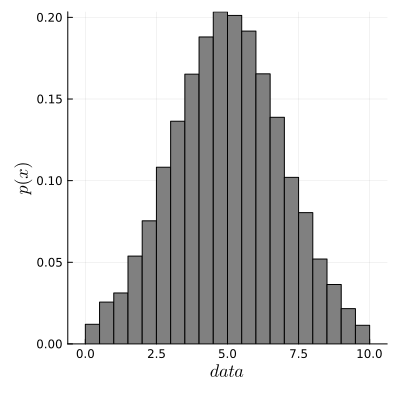
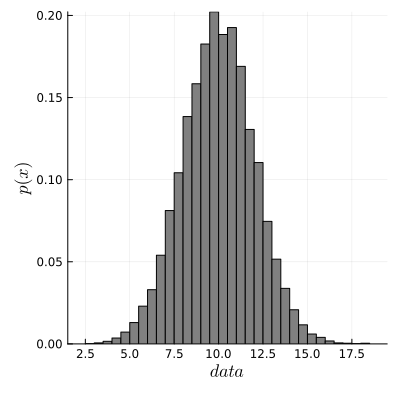
doc

diff --git a/README.md b/README.md
@@ -39,8 +39,8 @@ First, let's generate some data:
 ```julia
 using Distributions, LaTeXStrings, Plots
 
-mu, sigma = 5, 2
-l_b, u_b = 0, 10
+mu, sigma = 10, 2
+l_b, u_b = 0, 20
 d = Truncated(Normal(mu, sigma), l_b, u_b)
 N = 10000
 data = rand(d, N)
@@ -61,7 +61,7 @@ end
 
 function log_prior(parameters::Vector)
     mu, sigma = parameters[1], parameters[2]
-    if 1.0 < mu < 10.0 && 0.0 < sigma < 4.0
+    if 5.0 < mu < 15.0 && 0.0 < sigma < 5.0
         return 0.0
     end
     return -Inf
@@ -76,22 +76,22 @@ function log_probability(X::Vector, parameters::Vector)
 end
 ```
 
-The parameters are $$\mu$$ and $$\sigma$$. To run mcmc and sample the posterior probability function we call the McmcHermes packages. Let's define the number of walkers and iterations
+The parameters are $\mu$ and $\sigma$. To run mcmc and sample the posterior probability function we call the McmcHermes packages. Let's define the number of walkers and iterations
 
 ```julia
 using McmcHermes
 
-mu, sigma = 5, 2
+mu, sigma = 10, 2
 initparams = Vector{Float64}([mu, sigma])
 
-n_iter, n_walkers = 10000, 30
+n_iter, n_walkers = 5000, 30
 n_dim = 2
 seed = rand(n_walkers, n_dim) * 1e-4 .+ transpose(initparams)
 
 chains = McmcHermes.run_mcmc(log_probability, data, seed, n_iter, n_walkers, n_dim, a=0.01)
 println(size(chains))
 ```
-(10000, 30, 2)
+(5000, 30, 2)
 
 Gelman-Rubin's diagnostic of chains can be obtained calling the gelman\_rubin\_diagnostic method.
 ```julia 
@@ -119,16 +119,42 @@ Chains can also be plotted in a corner. To do so, first get the flat chain
 ```julia
 flat_chains = McmcHermes.get_flat_chain(chains, burn_in=100, thin=10)
 
-flat = DataFrame(flat_chains, :auto)
-colnames = ["mu", "sigma"]
-flat = rename!(flat, Symbol.(colnames))
-
 using PairPlots, CairoMakie
-pairplot(flat)
+
+table = (; x=flat_chains[:,1], y=flat_chains[:,2],)
+fig = pairplot(table, labels = Dict(:x => L"\mu", :y => L"\sigma"))
 ```
 ![corner](./docs/src/assets/corner.png)
 
 ### Get samples from a distribution (New)
 
+If you want to draw samples from the following distribution
+
+$$\frac{1}{\sqrt{2 \pi} \sigma_{1}} e^\left[- \frac{(x - \mu_{1})^{2}}{2 \sigma_{1}^{2}}\right]$$
+
+You would do something like:
+
+```julia
+function pdf(X::Number, params::Vector)
+    s1, s2, mu1, mu2 = params[1], params[2], params[3], params[4]
+    return 1 / (sqrt(2 * pi) * s1) * exp( -0.5*((X - mu1)/s1)^2 ) + 1 / (sqrt(2 * pi) * s2) * exp( -0.5*((X - mu2)/s2)^2 )
+end
+
+function gaussian_function(X::Vector, params::Vector)
+    x_values = collect(range(minimum(X), maximum(X), length=length(X)))
+    s1, s2, mu1, mu2 = params[1], params[2], params[3], params[4]
+    return 0.5 ./ (sqrt(2 * pi) .* s1) .* exp.(-0.5*((x_values .- mu1)./s1).^2) .+ 0.5 ./ (sqrt(2 * pi) .* s2) .* exp.(-0.5*((x_values .- mu2)./s2).^2)
+end
+
+params = [3, 1.5, -5, 5]
+interval = [-20, 20]
+sampling = McmcHermes.sampler(pdf, 10000, interval, params)
+
+x_values = Vector{Float64}(range(interval[1], interval[2], 100))
+
+histogram(sampling, xlabel=L"samples", ylabel=L"p(x)", xguidefontsize=12, color=:gray, yguidefontsize=12, normalize=:pdf, show=true, label="samples")
+plot!(x_values, gaussian_function(x_values, params), lw=3, size=(500,400), label="Function", lc=:orange, show=true)
+```
+![samples](./docs/src/assets/samples.png)
 
 See here the [documentation](https://stevenalfonso.github.io/McmcHermes.jl/dev/).
